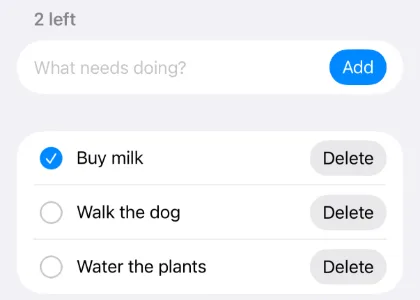
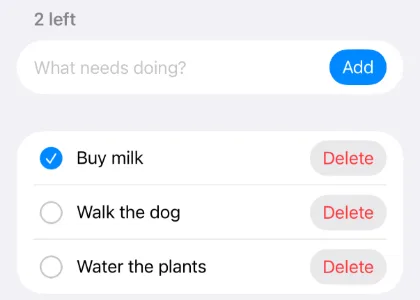
A button's face says when its author wrote no buttonStyle (LLP 1115.000 D15)
Nothing a person sees moves here. It is the plumbing the next commit's
one-constant change of default stands on, and it is right whichever way
that default goes: what a button with no `buttonStyle` draws is each
platform's own default, so the host holds it and the kernel stops naming
one.

`ButtonMeasureRequest.button_style` is `None` when no style was written,
where it said `bordered`, and the face that crosses to Swift then says
`"style":null` and carries no platform column. `ButtonFace.style` is
optional, and its columns' defaults are what a button with no style draws:
still `bordered` on iOS and the Mac's push button. A name outside the
table still draws `bordered` and says it is unknown. The measuring path
and the presenting path read the same face, as before.

This was the lane's "a destructive button with no style is the system
red", written on `7778b90b2`. Main has since landed LLP 1116.008 D7
(`e15d14c84`), which draws `destructive` on every style of an ordinary
button, the unstyled one included, on iOS and the Mac. Main's is kept and
the lane's is dropped where the two do the same thing:

- Dropped: the lane's rule in `ButtonConfigurationIOS.apply` (red only
  when no style and no colour was written) and its `Written.destructive`;
  main's `destructiveInk`, red tint and `Written.destructive` stand.
- Dropped: the lane's QUEUE clause saying a styled destructive button is
  not red (main paints it) and its claim that the Mac's stays unpainted
[…]

Changed region(s): [[0.7738, 0.66, 0.8976, 0.75], [0.7738, 0.48, 0.8976, 0.57], [0.7738, 0.87, 0.8976, 0.93]]

diff --git a/host/apple/tests/ExactKitTests/NativeButtonsIOSTests.swift b/host/apple/tests/ExactKitTests/NativeButtonsIOSTests.swift
@@ -118,6 +118,43 @@ final class NativeButtonsIOSTests: XCTestCase {
         XCTAssertEqual(named.first?["role"] as? String, "button")
     }
 
+    /// What `testADestructiveButtonDrawsInThePlatformsRedUnlessTheAuthorPaintedIt`
+    /// leaves unheld (LLP 1115.000 D15's measurements on iOS 27): the red is the configuration's base colour and not a
+    /// transformer's, so what UIKit draws is `systemRed` in each scheme and,
+    /// for a disabled one, the grey of a disabled button UIKit configured
+    /// itself; and the prop paints it when it arrives and stops when it leaves.
+    func testADestructiveButtonIsRedAsDrawnGreyWhenDisabledAndFollowsItsProp() throws {
+        let plain = face("Delete", style: "plain", ios: "plain")
+        let p = presenter(box(1) + native(2, ["destructive": "true"]) + native(3) + native(6, ["destructive": "true", "disabled": "true"])
+                          + [["op": "children", "id": 1, "ids": [2, 3, 6]], ["op": "roots", "ids": [1]]],
+                          faces: [2: plain, 3: plain, 6: plain])
+        XCTAssertEqual(try button(p, 2).configuration?.baseForegroundColor, .systemRed)
+        XCTAssertNil(try button(p, 3).configuration?.baseForegroundColor, "not destructive: UIKit's own ink")
+        var hand = UIButton.Configuration.plain(); hand.title = "Delete"
+        let uikit = UIButton(configuration: hand)
+        uikit.isEnabled = false
+        window.addSubview(uikit)
+        for scheme in [UIUserInterfaceStyle.light, .dark] {
+            window.overrideUserInterfaceStyle = scheme
+            window.updateTraitsIfNeeded()
+            for b in [try button(p, 2), try button(p, 6), uikit] {
+                b.setNeedsUpdateConfiguration(); b.updateConfiguration(); b.layoutIfNeeded()
+            }
+            XCTAssertEqual(rgba(try button(p, 2).titleLabel?.textColor, scheme), rgba(.systemRed, scheme), "\(scheme.rawValue)")
+            XCTAssertEqual(rgba(try button(p, 6).titleLabel?.textColor, scheme), rgba(uikit.titleLabel?.textColor, scheme), "disabled, \(scheme.rawValue)")
+            XCTAssertNotEqual(rgba(try button(p, 6).titleLabel?.textColor, scheme), rgba(.systemRed, scheme), "disabled is not red, \(scheme.rawValue)")
+        }
+        p.apply(wireBatch([["op": "props", "id": 3, "set": ["destructive": "true"]]]))
+        XCTAssertEqual(try button(p, 3).configuration?.baseForegroundColor, .systemRed)
+        p.apply(wireBatch([["op": "props", "id": 3, "clear": ["destructive"]]]))
+        XCTAssertNil(try button(p, 3).configuration?.baseForegroundColor)
+    }
+    private func rgba(_ color: UIColor?, _ scheme: UIUserInterfaceStyle) -> [Int] {
+        var (r, g, b, a): (CGFloat, CGFloat, CGFloat, CGFloat) = (0, 0, 0, 0)
+        color?.resolvedColor(with: UITraitCollection(userInterfaceStyle: scheme)).getRed(&r, green: &g, blue: &b, alpha: &a)
+        return [r, g, b, a].map { Int(($0 * 255).rounded()) }
+    }
+
     func testItsActionPressesOnceItsOwnOrAnAncestorsHandler() throws {
         let p = presenter(box(1, handlers: ["press"]) + native(2) + native(3, handlers: []) + native(4, ["disabled": "true"])
                           + [["op": "children", "id": 1, "ids": [2, 3, 4]], ["op": "roots", "ids": [1]]],

diff --git a/host/apple/Sources/ExactKit/Mac/NativeButtonsMac.swift b/host/apple/Sources/ExactKit/Mac/NativeButtonsMac.swift
@@ -224,7 +224,7 @@ extension ControlHost {
             toolTip: owner.props["title"] ?? (face.title == nil ? owner.authoredLabel : nil))
         guard button.written != written else { return }
         if !face.known, button.written?.face.style != face.style {
-            presenter.session?.log("buttonStyle `\(face.style)` is not a button style; drawing bordered")
+            presenter.session?.log("buttonStyle `\(face.style ?? "")` is not a button style; drawing bordered")
         }
         button.written = written
         let (look, glass) = ButtonConfigurationMac.apply(face, to: button, appearance: owner.effectiveAppearance, accent: accent, destructive: destructive, red: red)
@@ -251,12 +251,12 @@ extension ControlHost {
         var standIns = rows.compactMapValues { ($0 as? [String: Any])?["standIn"] as? String }
         let mapped = ButtonFace.drawn(face.macos)
         if mapped.standIn || mapped.name != button.drawn {
-            standIns["buttonStyle"] = "AppKit draws \(button.drawn) for \(face.style)"
+            standIns["buttonStyle"] = "AppKit draws \(button.drawn) for \(face.style ?? "")"
         }
         if !button.isEnabled, button.written?.accent != nil, button.bezelColor != nil {
             standIns["accent-color"] = "AppKit applies its disabled bezel tint despite the authored accent"
         }
-        return ["view": "NSButton", "style": face.style, "drawn": button.drawn, "title": face.title as Any,
+        return ["view": "NSButton", "style": face.style as Any, "drawn": button.drawn, "title": face.title as Any,
                 "symbol": face.symbol as Any, "enabled": button.isEnabled,
                 "rows": rows, "standIns": standIns, "imagePosition": button.imagePosition.rawValue,
                 "pointerEvents": button.written?.interactive == false ? "none" : "auto",

diff --git a/host/apple/Sources/ExactKit/ControlKinds.swift b/host/apple/Sources/ExactKit/ControlKinds.swift
@@ -150,7 +150,10 @@ struct SelectMenu: Equatable {
 /// the platform names it, whether its image is a raster instead, whether the
 /// image leads, its `aria-label`, whether its children fit (one text, one
 /// image, nothing else); and a native button's `buttonStyles` row (LLP
-/// 1069.011 D2) — each platform's draw, a `~` marking a stand-in.
+/// 1069.011 D2) — each platform's draw, a `~` marking a stand-in. `style` is
+/// the `buttonStyle` its author wrote, nil when they wrote none: the face
+/// then carries no row, and the platform columns keep their defaults here,
+/// which are what a button with no style draws.
 struct ButtonFace: Equatable {
     /// Whether the node is a button at all; the rest is empty when not.
     var button = true
@@ -163,7 +166,7 @@ struct ButtonFace: Equatable {
     var leading = true
     var label: String?
     var fits = true
-    var style = "bordered"
+    var style: String?
     var ios = "bordered"
     var iosBefore26 = "bordered"
     var macos = "push"
@@ -182,10 +185,10 @@ struct ButtonFace: Equatable {
         leading = o["leading"] as? Bool ?? true
         label = o["label"] as? String
         fits = o["fits"] as? Bool ?? true
-        style = o["style"] as? String ?? "bordered"
-        ios = o["ios"] as? String ?? "bordered"
-        iosBefore26 = o["iosBefore26"] as? String ?? "bordered"
-        macos = o["macos"] as? String ?? "push"
+        style = o["style"] as? String
+        ios = o["ios"] as? String ?? ios
+        iosBefore26 = o["iosBefore26"] as? String ?? iosBefore26
+        macos = o["macos"] as? String ?? macos
         known = o["known"] as? Bool ?? true
     }
 

diff --git a/host/apple/Sources/ExactKit/IOS/NativeButtonsIOS.swift b/host/apple/Sources/ExactKit/IOS/NativeButtonsIOS.swift
@@ -162,7 +162,7 @@ extension ControlHost {
             interactive: owner.style["pointer_events"]?.string != "none")
         guard button.written != written else { return }
         if !face.known, button.written?.face.style != face.style {
-            presenter.session?.log("buttonStyle `\(face.style)` is not a button style; drawing bordered")
+            presenter.session?.log("buttonStyle `\(face.style ?? "")` is not a button style; drawing bordered")
         }
         button.written = written
         let (_, drawn, glass) = Self.configuration(face)
@@ -186,7 +186,7 @@ extension ControlHost {
     /// What the agent's `layout` says of a native button (D10).
     func nativeObservation(_ button: NativeButtonIOS) -> [String: Any] {
         let face = button.written?.face ?? ButtonFace()
-        return ["view": "UIButton", "style": face.style, "drawn": button.drawn, "title": face.title as Any,
+        return ["view": "UIButton", "style": face.style as Any, "drawn": button.drawn, "title": face.title as Any,
                 "symbol": face.symbol as Any, "enabled": button.isEnabled,
                 "subtitle": face.subtitle as Any, "imagePlacement": face.placement ?? (face.leading ? "leading" : "trailing"),
                 "pointerEvents": button.isUserInteractionEnabled ? "auto" : "none",

diff --git a/host/apple/src/button.rs b/host/apple/src/button.rs
@@ -2,16 +2,22 @@
 //! @ref LLP 1069.011.001 D1–D15.
 use exact_kernel::{ButtonFaceStyle, PressFace};
 
+/// `style` is the `buttonStyle` the author wrote. A written name crosses
+/// with its row's platform columns (`bordered`'s for a name not in the
+/// table). With none written the face says so, `"style":null`, and carries
+/// no column: what an unsaid button draws is each platform's own default,
+/// which the host holds (`ButtonFace`, LLP 1115.000 D15).
 pub(crate) fn face_json(
     face: Option<&PressFace>,
     rows: Option<&ButtonFaceStyle>,
-    style: &str,
+    style: Option<&str>,
 ) -> String {
     let quote = exact_runner::agent::quote;
     let button = face.is_some();
     let face = face.cloned().unwrap_or_default();
-    let row = exact_kernel::generated::button_style(style);
-    let drawn = row.or_else(|| exact_kernel::generated::button_style("bordered"));
+    let row = style.and_then(exact_kernel::generated::button_style);
+    let drawn =
+        style.and_then(|_| row.or_else(|| exact_kernel::generated::button_style("bordered")));
     let mut json = format!("{{\"button\":{button},\"title\":");
     match &face.title {
         Some(t) => quote(t, &mut json),
@@ -38,7 +44,10 @@ pub(crate) fn face_json(
         None => json.push_str("null"),
     }
     json.push_str(",\"style\":");
-    quote(style, &mut json);
+    match style {
+        Some(style) => quote(style, &mut json),
+        None => json.push_str("null"),
+    }
     if let Some(d) = drawn {
         json.push_str(",\"ios\":");
         quote(d.ios, &mut json);
@@ -47,7 +56,7 @@ pub(crate) fn face_json(
         json.push_str(",\"macos\":");
         quote(d.macos, &mut json);
     }
-    json.push_str(&format!(",\"known\":{}", row.is_some()));
+    json.push_str(&format!(",\"known\":{}", style.is_none() || row.is_some()));
     json.push_str(",\"subtitle\":");
     match &face.subtitle {
         Some(t) => quote(t, &mut json),
@@ -121,7 +130,7 @@ mod tests {
         let face = kernel.press_face(id).unwrap();
         let rows = kernel.button_face_style(id).unwrap();
         let json: serde_json::Value =
-            serde_json::from_str(&face_json(Some(&face), Some(&rows), "tinted")).unwrap();
+            serde_json::from_str(&face_json(Some(&face), Some(&rows), Some("tinted"))).unwrap();
         assert_eq!(json["subtitle"], "Your vehicle");
         assert_eq!(json["symbol"], "lock.fill");
         assert_eq!(json["placement"], "top");
@@ -192,7 +201,7 @@ mod tests {
             let json: serde_json::Value = serde_json::from_str(&face_json(
                 kernel.press_face(id).as_ref(),
                 Some(&rows),
-                "bordered",
+                None,
             ))
             .unwrap();
             assert_eq!(json["rows"]["title"]["font_size"], title_size);
@@ -207,6 +216,37 @@ mod tests {
                 );
             }
         }
+    }
+    /// LLP 1115.000 D15: the face says whether its author wrote a
+    /// `buttonStyle`. A written name crosses with its row's columns; with
+    /// none written the style is null and no column crosses, since what an
+    /// unsaid button draws is the platform's default, which the host holds.
+    /// A name outside the table still draws `bordered` and says it is unknown.
+    #[test]
+    fn the_face_says_whether_its_author_wrote_a_style() {
+        let face = PressFace {
+            title: Some("Add".into()),
+            fits: true,
+            ..Default::default()
+        };
+        let json = |style| -> serde_json::Value {
+            serde_json::from_str(&face_json(Some(&face), None, style)).unwrap()
+        };
+        let said = json(Some("bordered"));
+        assert_eq!(said["style"], "bordered");
+        assert_eq!(said["ios"], "bordered");
+        assert_eq!(said["macos"], "push");
+        assert_eq!(said["known"], true);
+        let unsaid = json(None);
+        assert!(unsaid["style"].is_null(), "{unsaid}");
+        for column in ["ios", "iosBefore26", "macos"] {
+            assert!(unsaid.get(column).is_none(), "{column}: {unsaid}");
+        }
+        assert_eq!(unsaid["known"], true, "nothing written is not a wrong name");
+        let wrong = json(Some("chunky"));
+        assert_eq!(wrong["style"], "chunky");
+        assert_eq!(wrong["ios"], "bordered");
+        assert_eq!(wrong["known"], false);
     }
     struct NoData;
     impl exact_runner::DataSource for NoData {

diff --git a/kernel/tests/it/native_buttons.rs b/kernel/tests/it/native_buttons.rs
@@ -137,7 +137,7 @@ fn a_host_measurement_is_the_first_frame_and_wraps_at_each_width() {
     let request = answers.borrow().1.last().unwrap().clone();
     assert_eq!(request.face.subtitle.as_deref(), Some("A subtitle"));
     assert_eq!(request.face.symbol.as_deref(), Some("send"));
-    assert_eq!(request.button_style, "filled");
+    assert_eq!(request.button_style.as_deref(), Some("filled"));
     assert_eq!(k.provisional_layouts(), 0);
 }
 #[test]
@@ -379,7 +379,10 @@ fn changing_button_style_requests_layout_in_the_same_commit() {
         .unwrap();
     assert!(receipt.layout_invalidated);
     layout(&mut k);
-    assert_eq!(answers.borrow().1.last().unwrap().button_style, "plain");
+    assert_eq!(
+        answers.borrow().1.last().unwrap().button_style.as_deref(),
+        Some("plain")
+    );
     let receipt = k
         .apply(
             0,
@@ -392,7 +395,9 @@ fn changing_button_style_requests_layout_in_the_same_commit() {
         .unwrap();
     assert!(receipt.layout_invalidated);
     layout(&mut k);
-    assert_eq!(answers.borrow().1.last().unwrap().button_style, "bordered");
+    // With none written the kernel names none: what an unsaid button draws
+    // is each platform's default, which its host holds (LLP 1115.000 D15).
+    assert_eq!(answers.borrow().1.last().unwrap().button_style, None);
 }
 
 #[test]

diff --git a/host/apple/src/abi/commands.rs b/host/apple/src/abi/commands.rs
@@ -164,7 +164,8 @@ impl<D: DataSource> Bridge<D> {
     /// "ios","iosBefore26","macos","known"}` — `button` false (and the rest
     /// empty) for a node that is not a button, the symbol as the platform
     /// names it, the style's row of the `buttonStyles` table (`bordered` for a
-    /// name not in it). Not a batch: nothing changes.
+    /// name not in it); with no `buttonStyle` written, `"style":null` and no
+    /// platform column (`button::face_json`). Not a batch: nothing changes.
     pub fn press_face(&mut self, view: u32) -> u32 {
         let json = self.host.as_ref().map_or_else(
             || "{\"button\":false}".into(),
@@ -174,8 +175,7 @@ impl<D: DataSource> Bridge<D> {
                 let rows = kernel.button_face_style(view);
                 let style = kernel
                     .node(view)
-                    .and_then(|n| n.props.str(exact_kernel::PropId::ButtonStyle))
-                    .unwrap_or("bordered");
+                    .and_then(|n| n.props.str(exact_kernel::PropId::ButtonStyle));
                 crate::button::face_json(face.as_ref(), rows.as_ref(), style)
             },
         );

diff --git a/host/apple/src/control_text_tests.rs b/host/apple/src/control_text_tests.rs
@@ -326,8 +326,7 @@ fn resolved_button_geometry_has_one_measurement_and_presentation_payload() {
     assert_eq!(rows.button.padding_left, Dimension::Points(42.));
     assert_eq!(rows.button.padding_right, Dimension::Points(20.));
     assert!(rows.button.mask.has(StyleId::PaddingTop));
-    let presented =
-        crate::button::face_json(kernel.press_face(id).as_ref(), Some(&rows), "bordered");
+    let presented = crate::button::face_json(kernel.press_face(id).as_ref(), Some(&rows), None);
     assert_eq!(captured.borrow().last().unwrap(), &presented);
     let json: serde_json::Value = serde_json::from_str(&presented).unwrap();
     assert_eq!(json["rows"]["button"]["padding_top"], 31.);
@@ -399,7 +398,7 @@ fn control_size_fonts_feed_em_resolution_and_the_shared_face_payload() {
     let json: serde_json::Value = serde_json::from_str(&crate::button::face_json(
         kernel.press_face(id).as_ref(),
         Some(&rows),
-        "bordered",
+        None,
     ))
     .unwrap();
     assert_eq!(json["rows"]["title"]["font_size"], 57.);

diff --git a/kernel/src/layout/buttons.rs b/kernel/src/layout/buttons.rs
@@ -113,8 +113,7 @@ impl LayoutTree {
                             button_style: arena
                                 .props(slot)
                                 .str(PropId::ButtonStyle)
-                                .unwrap_or("bordered")
-                                .to_owned(),
+                                .map(str::to_owned),
                             width: AxisOffer::MaxContent,
                         },
                         answers: Vec::with_capacity(LEAF_OFFERS),
@@ -228,7 +227,7 @@ mod tests {
             request: ButtonMeasureRequest {
                 face: arena.press_face(slot).unwrap(),
                 style: arena.button_face_style_unresolved(slot).unwrap(),
-                button_style: "bordered".into(),
+                button_style: None,
                 width: AxisOffer::MaxContent,
             },
             answers: Vec::with_capacity(LEAF_OFFERS),

diff --git a/kernel/src/control_measurement.rs b/kernel/src/control_measurement.rs
@@ -240,8 +240,10 @@ pub struct ButtonMeasureRequest {
     pub face: crate::PressFace,
     /// Resolved rows with authored masks.
     pub style: ButtonFaceStyle,
-    /// Name from buttonStyles; bordered when absent.
-    pub button_style: String,
+    /// The `buttonStyle` its author wrote, a name from `buttonStyles`;
+    /// `None` when they wrote none, which each host draws as its platform's
+    /// own default (LLP 1115.000 D15).
+    pub button_style: Option<String>,
     /// Offered border-box width; hosts answer height-for-width.
     pub width: crate::AxisOffer,
 }

diff --git a/host/apple/src/control_text.rs b/host/apple/src/control_text.rs
@@ -157,7 +157,7 @@ pub(crate) fn button_measure(
     ctx: *mut c_void,
     r: &exact_kernel::ButtonMeasureRequest,
 ) -> exact_kernel::ButtonMeasure {
-    let face = crate::button::face_json(Some(&r.face), Some(&r.style), &r.button_style);
+    let face = crate::button::face_json(Some(&r.face), Some(&r.style), r.button_style.as_deref());
     let (width_kind, width) = match r.width {
         exact_kernel::AxisOffer::Definite(w) => (0, w),
         exact_kernel::AxisOffer::MinContent => (1, 0.0),

diff --git a/host/linux/src/paint/button.rs b/host/linux/src/paint/button.rs
@@ -427,7 +427,7 @@ mod tests {
                 button: StyleProps::default(),
                 image_gap: None,
             },
-            button_style: "bordered".into(),
+            button_style: None,
             width: AxisOffer::MaxContent,
         }
     }
